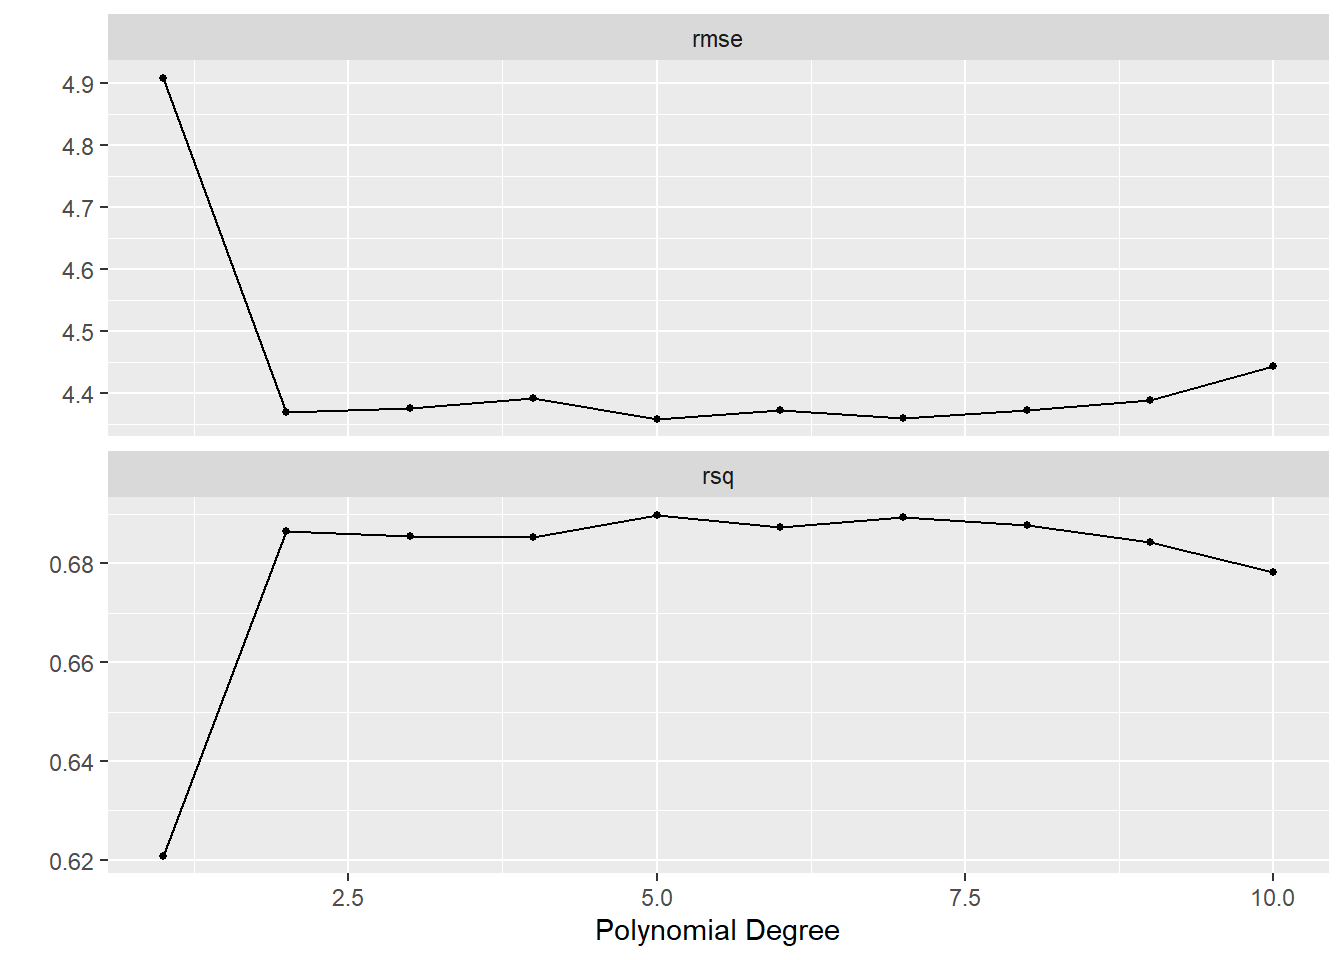
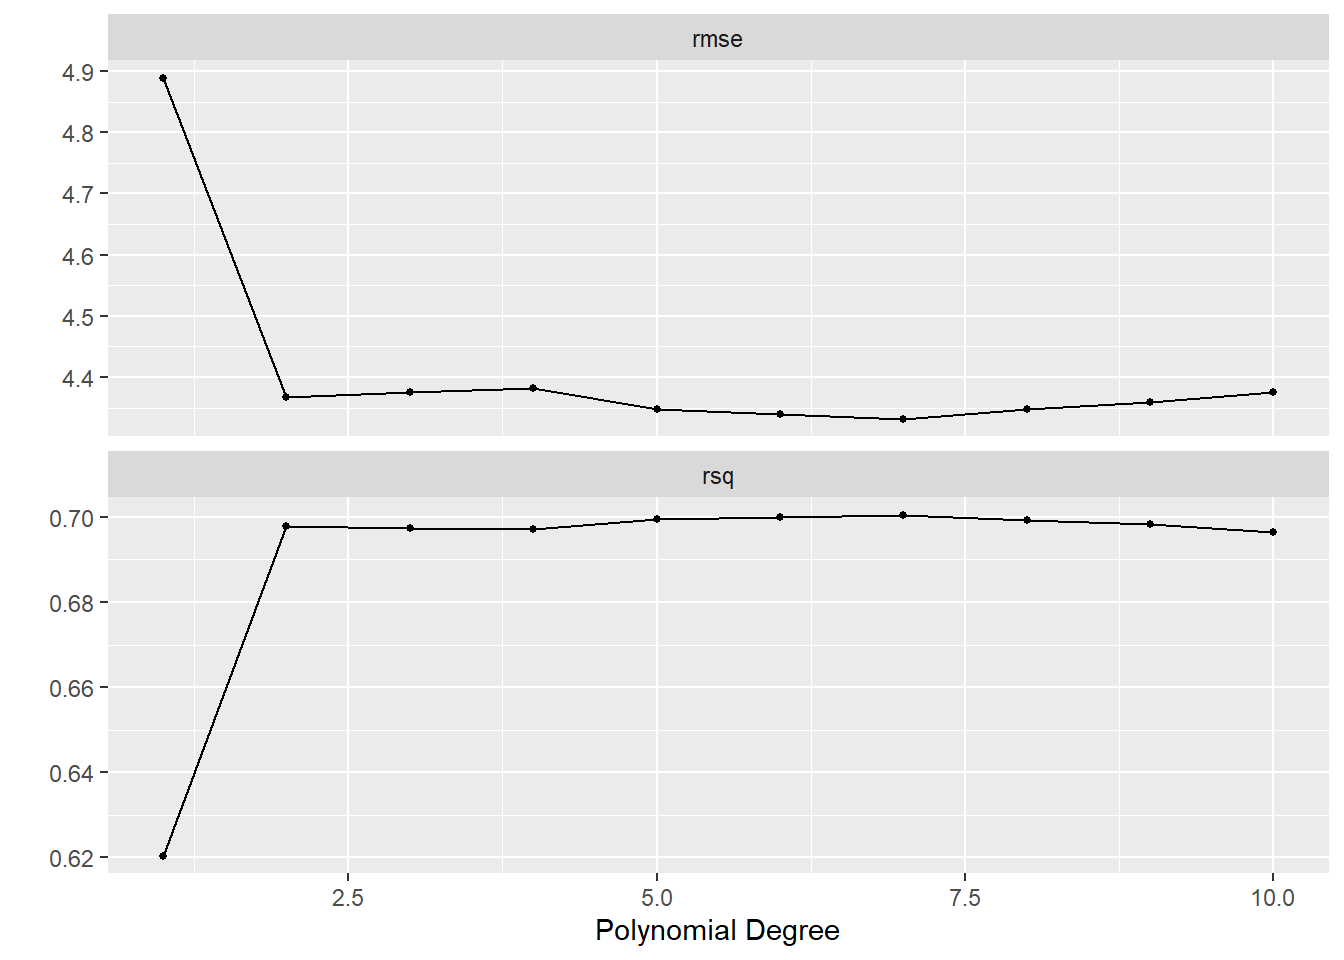
LOOCV doesn't need a seed to run and adding ISLR to lock file

diff --git a/docs/resampling-methods.html b/docs/resampling-methods.html
@@ -510,16 +510,15 @@ code span.wa { color: #60a0b0; font-weight: bold; font-style: italic; } /* Warni
 <span id="cb3-40"><a href="#cb3-40" aria-hidden="true" tabindex="-1"></a></span>
 <span id="cb3-41"><a href="#cb3-41" aria-hidden="true" tabindex="-1"></a></span>
 <span id="cb3-42"><a href="#cb3-42" aria-hidden="true" tabindex="-1"></a><span class="co"># Creating the rplit object</span></span>
-<span id="cb3-43"><a href="#cb3-43" aria-hidden="true" tabindex="-1"></a><span class="fu">set.seed</span>(<span class="dv">1</span>)</span>
-<span id="cb3-44"><a href="#cb3-44" aria-hidden="true" tabindex="-1"></a>AutoLooSplit <span class="ot">&lt;-</span> <span class="fu">loo_cv</span>(Auto)</span>
-<span id="cb3-45"><a href="#cb3-45" aria-hidden="true" tabindex="-1"></a></span>
-<span id="cb3-46"><a href="#cb3-46" aria-hidden="true" tabindex="-1"></a><span class="co"># Transforming to data.table</span></span>
-<span id="cb3-47"><a href="#cb3-47" aria-hidden="true" tabindex="-1"></a><span class="fu">setDT</span>(AutoLooSplit)</span>
-<span id="cb3-48"><a href="#cb3-48" aria-hidden="true" tabindex="-1"></a></span>
-<span id="cb3-49"><a href="#cb3-49" aria-hidden="true" tabindex="-1"></a><span class="fu">paste0</span>(<span class="st">"mpg ~ poly(horsepower, degree="</span>, <span class="dv">1</span><span class="sc">:</span><span class="dv">10</span>, <span class="st">")"</span>) <span class="sc">|&gt;</span></span>
-<span id="cb3-50"><a href="#cb3-50" aria-hidden="true" tabindex="-1"></a>  <span class="fu">lapply</span>(collect_loo_testing_error,</span>
-<span id="cb3-51"><a href="#cb3-51" aria-hidden="true" tabindex="-1"></a>         <span class="at">loo_split =</span> AutoLooSplit) <span class="sc">|&gt;</span></span>
-<span id="cb3-52"><a href="#cb3-52" aria-hidden="true" tabindex="-1"></a>  <span class="fu">rbindlist</span>()</span></code><button title="Copy to Clipboard" class="code-copy-button"><i class="bi"></i></button></pre></div>
+<span id="cb3-43"><a href="#cb3-43" aria-hidden="true" tabindex="-1"></a>AutoLooSplit <span class="ot">&lt;-</span> <span class="fu">loo_cv</span>(Auto)</span>
+<span id="cb3-44"><a href="#cb3-44" aria-hidden="true" tabindex="-1"></a></span>
+<span id="cb3-45"><a href="#cb3-45" aria-hidden="true" tabindex="-1"></a><span class="co"># Transforming to data.table</span></span>
+<span id="cb3-46"><a href="#cb3-46" aria-hidden="true" tabindex="-1"></a><span class="fu">setDT</span>(AutoLooSplit)</span>
+<span id="cb3-47"><a href="#cb3-47" aria-hidden="true" tabindex="-1"></a></span>
+<span id="cb3-48"><a href="#cb3-48" aria-hidden="true" tabindex="-1"></a><span class="fu">paste0</span>(<span class="st">"mpg ~ poly(horsepower, degree="</span>, <span class="dv">1</span><span class="sc">:</span><span class="dv">10</span>, <span class="st">")"</span>) <span class="sc">|&gt;</span></span>
+<span id="cb3-49"><a href="#cb3-49" aria-hidden="true" tabindex="-1"></a>  <span class="fu">lapply</span>(collect_loo_testing_error,</span>
+<span id="cb3-50"><a href="#cb3-50" aria-hidden="true" tabindex="-1"></a>         <span class="at">loo_split =</span> AutoLooSplit) <span class="sc">|&gt;</span></span>
+<span id="cb3-51"><a href="#cb3-51" aria-hidden="true" tabindex="-1"></a>  <span class="fu">rbindlist</span>()</span></code><button title="Copy to Clipboard" class="code-copy-button"><i class="bi"></i></button></pre></div>
 <div class="cell-output cell-output-stdout">
 <pre><code>    degree .metric .estimator .estimate
     &lt;char&gt;  &lt;char&gt;     &lt;char&gt;     &lt;num&gt;
@@ -604,11 +603,11 @@ code span.wa { color: #60a0b0; font-weight: bold; font-style: italic; } /* Warni
 <pre><code># A tibble: 5 × 7
   degree .metric .estimator  mean     n std_err .config              
    &lt;int&gt; &lt;chr&gt;   &lt;chr&gt;      &lt;dbl&gt; &lt;int&gt;   &lt;dbl&gt; &lt;chr&gt;                
-1      5 rmse    standard    4.36    10   0.151 Preprocessor05_Model1
-2      7 rmse    standard    4.36    10   0.200 Preprocessor07_Model1
-3      2 rmse    standard    4.37    10   0.131 Preprocessor02_Model1
-4      6 rmse    standard    4.37    10   0.184 Preprocessor06_Model1
-5      8 rmse    standard    4.37    10   0.201 Preprocessor08_Model1</code></pre>
+1      7 rmse    standard    4.33    10   0.144 Preprocessor07_Model1
+2      6 rmse    standard    4.34    10   0.143 Preprocessor06_Model1
+3      8 rmse    standard    4.35    10   0.145 Preprocessor08_Model1
+4      5 rmse    standard    4.35    10   0.146 Preprocessor05_Model1
+5      9 rmse    standard    4.36    10   0.149 Preprocessor09_Model1</code></pre>
 </div>
 <div class="sourceCode cell-code" id="cb7"><pre class="sourceCode r code-with-copy"><code class="sourceCode r"><span id="cb7-1"><a href="#cb7-1" aria-hidden="true" tabindex="-1"></a><span class="fu">autoplot</span>(AutoTuneReponse)</span></code><button title="Copy to Clipboard" class="code-copy-button"><i class="bi"></i></button></pre></div>
 <div class="cell-output-display">
@@ -668,8 +667,8 @@ code span.wa { color: #60a0b0; font-weight: bold; font-style: italic; } /* Warni
 <pre><code># A tibble: 2 × 5
   term           low   mean   high      sd
   &lt;chr&gt;        &lt;dbl&gt;  &lt;dbl&gt;  &lt;dbl&gt;   &lt;dbl&gt;
-1 (Intercept) 38.5   40.0   41.5   0.834  
-2 horsepower  -0.172 -0.158 -0.146 0.00715</code></pre>
+1 (Intercept) 38.5   40.0   41.7   0.851  
+2 horsepower  -0.173 -0.158 -0.145 0.00734</code></pre>
 </div>
 </div>
 
